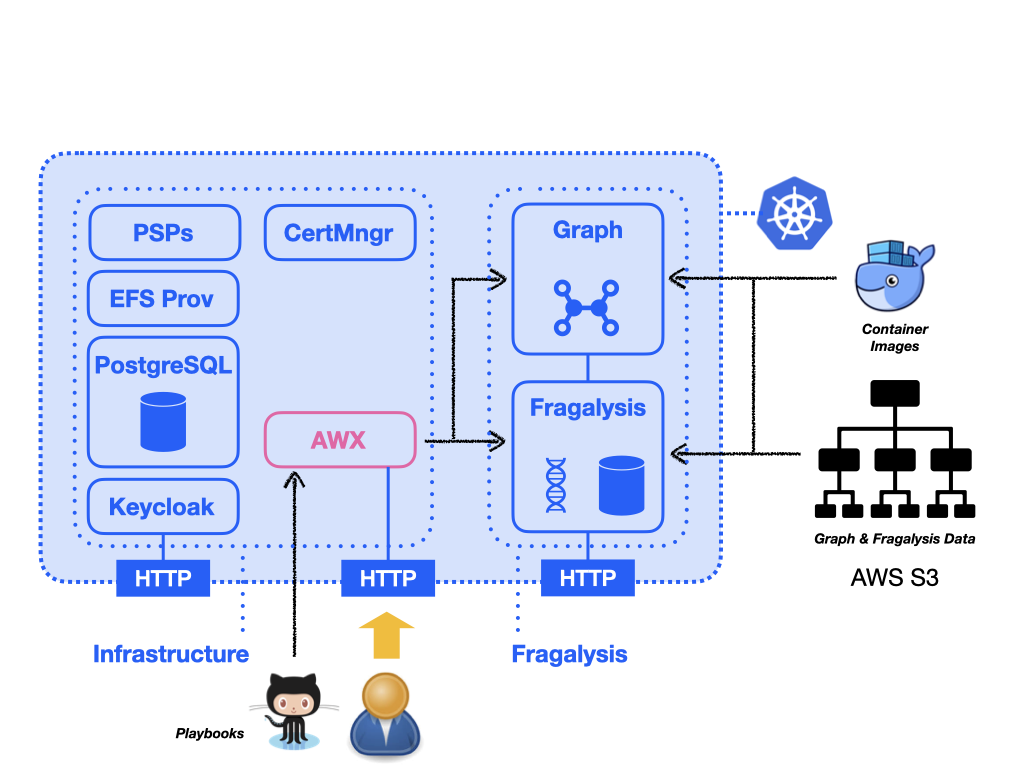
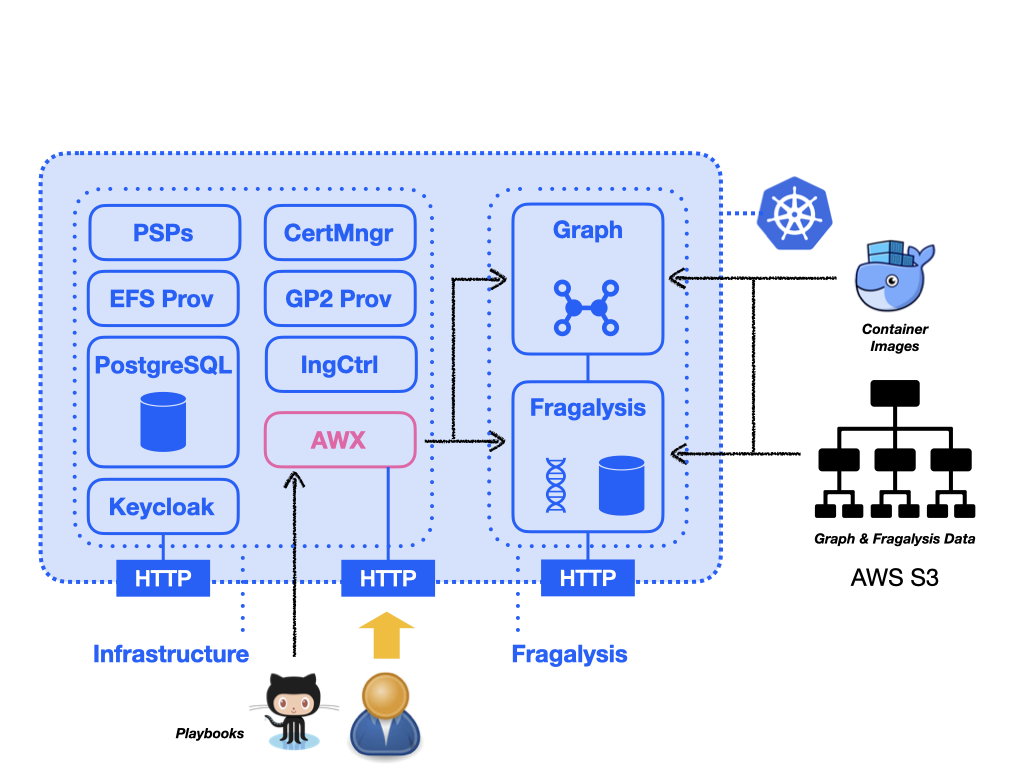
- Adds schematic diagrams for the basic and on-prem installation

Changed region(s): [[0.25, 0.3438, 0.4062, 0.5312]]

diff --git a/docs/source/cluster-prep/basic-on-prem/index.rst b/docs/source/cluster-prep/basic-on-prem/index.rst
@@ -14,11 +14,19 @@ A *basic* cluster contains only the essential infrastructure components
 to support the Fragalysis Stack and includes the deployment of a single,
 production-grade (versioned), Stack.
 
+The following schematic illustrates what we'll be installing. the important
+aspect of an *on-premises* installation is that you are responsible for the
+infrastructure, which consists of security policies, storage provisioners,
+certificate management and an ingress controller: -
+
+.. image:: ../../images/frag-travis/frag-travis.017.png
+
 From this point we assume you have a viable cluster and suitable
 infrastructure. That means that you have the following: -
 
 *   An NGINX ingress controller and associated Network Load balancer
 *   A RWX storage class (AWS EFS in our case)
+*   a RWO storage class (AWS GP2 in our case)
 *   Pod Security Policies
 *   Certificate management
 

diff --git a/docs/source/cluster-prep/basic/index.rst b/docs/source/cluster-prep/basic/index.rst
@@ -16,6 +16,12 @@ A *basic* cluster contains only the essential infrastructure components
 to support the Fragalysis Stack and includes the deployment of a single,
 production-grade (versioned), Stack.
 
+The following schematic illustrates what we'll be installing, which includes
+a number of infrastructure components as well as the Graph and Fragalysis
+Stack: -
+
+.. image:: ../../images/frag-travis/frag-travis.007.png
+
 From this point we assume you have a viable cluster, what follows are
 the steps required to deploy a single Fragalysis Stack and
 associated Graph database to that cluster: -
